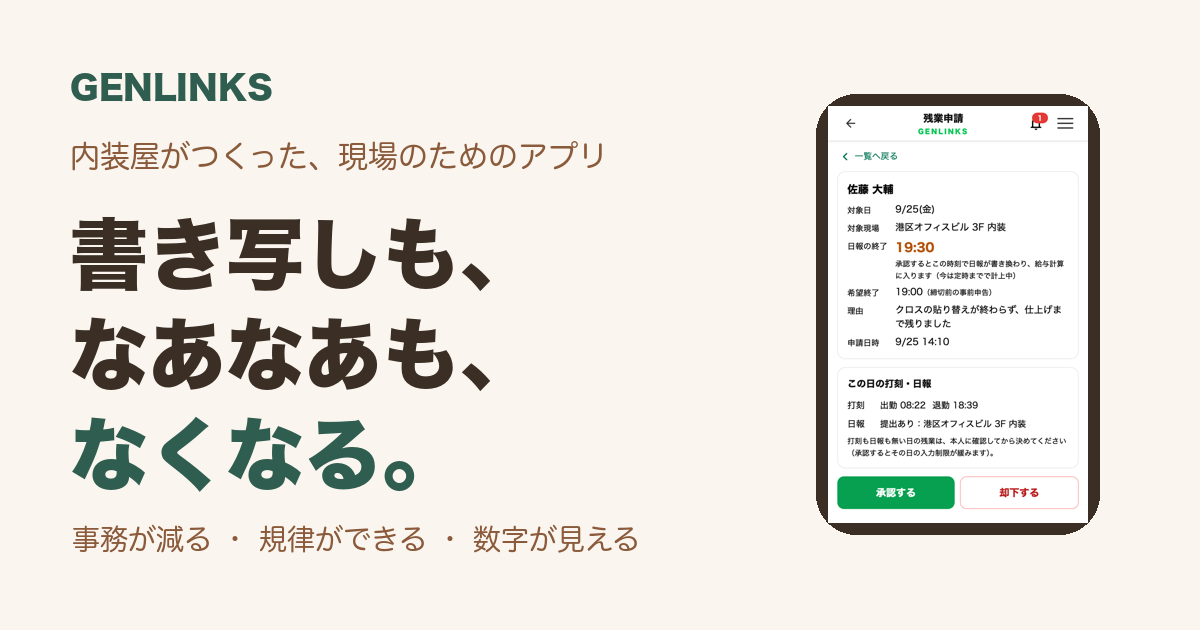
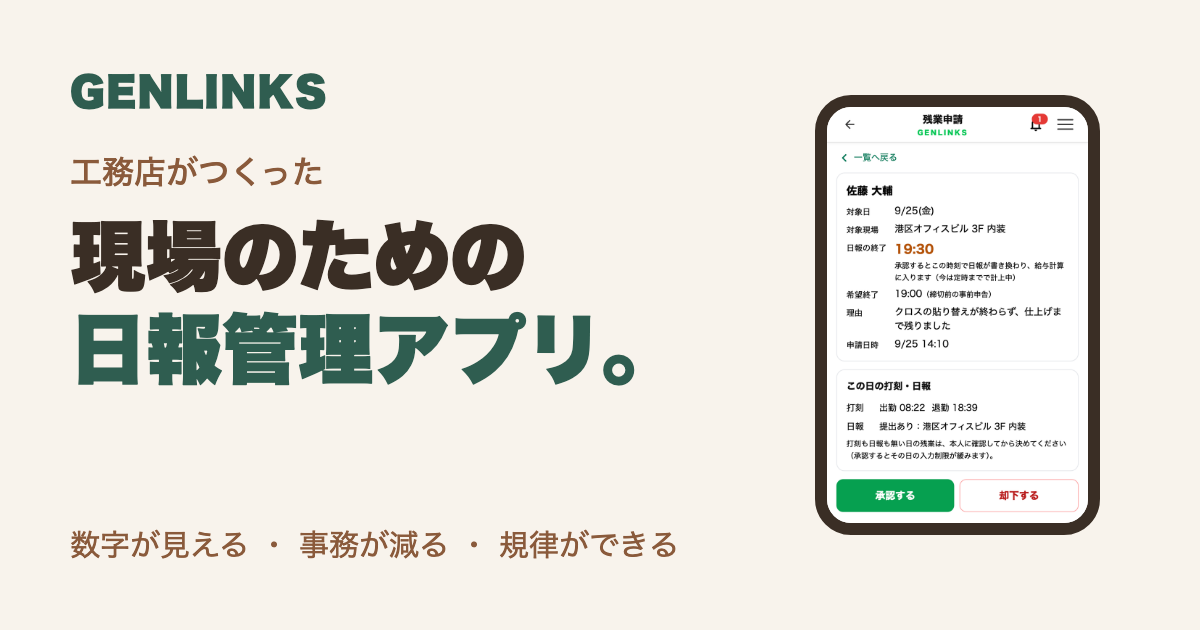
feat(lp): 大塚さんのレビューを反映（工務店がつくった日報管理アプリ／数字が見えるを先頭に・改訂5）
2026-09-28 大塚さん電話レビュー（設計書「GENLINKS 紹介用 LP（最小限）」改訂5）:
- 大見出しを「工務店がつくった、現場のための日報管理アプリ。」、札と価値の順を 数字が見える→事務が減る→規律ができる
- 困りごとの先頭を「儲かったのか分からない」、数字が見えるに「何か月もかかる現場でも今いくらか」「人件費は日当か実際の時給か選べる」
- 事務が減る: 見出しを「書き写しの伝言ゲームが、なくなる」（直せないように見えないように）＋「はじめに登録が要る（お手伝い）」
- 規律ができる: 残業申請がすぐ管理者に届く→無駄な残業が減る／経費は金額でなく「領収書の出し忘れがなくなる」／「職人さんを信じたい」
- シードの社名と「確認中」を外し「ある工務店（S社）」、つくった人の話は大塚さんの読み上げた文・名前はぼかす
- LINE 用の og 画像とタイトルも新しい顔に

diff --git a/apps/lp/index.html b/apps/lp/index.html
@@ -4,15 +4,15 @@
 <meta charset="utf-8">
 <meta name="viewport" content="width=device-width, initial-scale=1, viewport-fit=cover">
 <meta name="robots" content="noindex, nofollow">
-<meta name="description" content="書き写しも、なあなあも、なくなる。職人はスマホで日報だけ。事務・ルール・現場の数字が、ひとつにつながる。内装屋がつくった、現場のためのアプリ。">
+<meta name="description" content="工務店がつくった、現場のための日報管理アプリ。現場の原価が、その場で分かる。職人はスマホで日報を出すだけ。">
 <meta property="og:type" content="website">
-<meta property="og:title" content="GENLINKS｜書き写しも、なあなあも、なくなる。">
-<meta property="og:description" content="内装屋がつくった、現場のためのアプリ。職人はスマホで日報だけ。">
+<meta property="og:title" content="GENLINKS｜工務店がつくった、現場のための日報管理アプリ">
+<meta property="og:description" content="現場の原価が、その場で分かる。職人はスマホで日報を出すだけ。">
 <meta property="og:image" content="https://about.genlinks.app/img/og.png">
 <meta property="og:url" content="https://about.genlinks.app/">
 <meta name="twitter:card" content="summary_large_image">
 <meta name="theme-color" content="#2f5d50">
-<title>GENLINKS｜内装屋がつくった、現場のためのアプリ</title>
+<title>GENLINKS｜工務店がつくった、現場のための日報管理アプリ</title>
 <link rel="preconnect" href="https://fonts.googleapis.com">
 <link rel="preconnect" href="https://fonts.gstatic.com" crossorigin>
 <link rel="stylesheet" href="https://fonts.googleapis.com/css2?family=Zen+Maru+Gothic:wght@500;700;900&display=swap">
@@ -156,15 +156,14 @@
   <section class="hero">
     <div class="top">
       <div class="logo">GENLINKS</div>
-      <div class="badge">内装業のためのアプリ</div>
+      <div class="badge">内装・工務店のためのアプリ</div>
     </div>
-    <div class="eyebrow">内装屋がつくった、現場のためのアプリ</div>
-    <h1>書き写しも、<br>なあなあも、<br><span class="hl">なくなる。</span></h1>
-    <p class="lead">職人はスマホで日報だけ。<br>事務・ルール・現場の数字が、ひとつにつながる。</p>
+    <h1>工務店がつくった、<br>現場のための<br><span class="hl">日報管理アプリ。</span></h1>
+    <p class="lead">現場の原価が、その場で分かる。<br>職人はスマホで日報を出すだけ。</p>
     <div class="tags">
+      <span class="tag">数字が見える</span>
       <span class="tag">事務が減る</span>
       <span class="tag">規律ができる</span>
-      <span class="tag">数字が見える</span>
     </div>
     <div class="devices" aria-label="職人のスマホの日報が、社長のパソコンの集計に集まる様子">
       <div class="pc"><img src="img/lp-pc-attendance.png" alt="管理画面の出面・勤怠"></div>
@@ -177,6 +176,10 @@
   <section class="tint">
     <h2>こんなこと、<br>ありませんか？</h2>
     <div class="card pain">
+      <svg width="64" height="64" viewBox="0 0 64 64" fill="none" aria-hidden="true"><rect x="8" y="20" width="30" height="36" rx="3" fill="#efe5d6" stroke="#8a5a3b" stroke-width="2.5"/><path d="M15 29h5M25 29h5M15 38h5M25 38h5M15 47h5M25 47h5" stroke="#8a5a3b" stroke-width="2.5" stroke-linecap="round"/><path d="M4 56h56" stroke="#8a5a3b" stroke-width="2.5" stroke-linecap="round"/><circle cx="47" cy="26" r="13" fill="#ffffff" stroke="#2f5d50" stroke-width="3"/><path d="M42 20l5 6 5-6M47 26v8M43 29h8" stroke="#2f5d50" stroke-width="2.4" stroke-linecap="round" stroke-linejoin="round"/></svg>
+      <p>現場が終わるまで、儲かったのかどうか分からない</p>
+    </div>
+    <div class="card pain">
       <svg width="64" height="64" viewBox="0 0 64 64" fill="none" aria-hidden="true"><rect x="10" y="12" width="34" height="42" rx="4" fill="#efe5d6" stroke="#8a5a3b" stroke-width="2.5"/><rect x="16" y="8" width="34" height="42" rx="4" fill="#ffffff" stroke="#8a5a3b" stroke-width="2.5"/><path d="M23 19h20M23 26h20M23 33h14" stroke="#cdb89c" stroke-width="2.5" stroke-linecap="round"/><path d="M40 52 L56 36 L60 40 L44 56 L38 58 Z" fill="#d98b3a" stroke="#8a5a3b" stroke-width="2" stroke-linejoin="round"/></svg>
       <p>紙・LINE・Excel で届いた日報や経費を、毎日書き写している</p>
     </div>
@@ -184,25 +187,34 @@
       <svg width="64" height="64" viewBox="0 0 64 64" fill="none" aria-hidden="true"><circle cx="28" cy="34" r="20" fill="#ffffff" stroke="#2f5d50" stroke-width="3"/><path d="M28 22v12l8 6" stroke="#2f5d50" stroke-width="3" stroke-linecap="round" stroke-linejoin="round"/><circle cx="50" cy="16" r="11" fill="#d98b3a"/><path d="M46.5 13.5c0-2 1.6-3.5 3.5-3.5s3.5 1.4 3.5 3.3c0 2.6-3.5 2.8-3.5 5" stroke="#ffffff" stroke-width="2.4" stroke-linecap="round"/><circle cx="50" cy="22" r="1.4" fill="#ffffff"/></svg>
       <p>その残業や経費が本当かどうか、確かめようがない</p>
     </div>
-    <div class="card pain">
-      <svg width="64" height="64" viewBox="0 0 64 64" fill="none" aria-hidden="true"><rect x="8" y="20" width="30" height="36" rx="3" fill="#efe5d6" stroke="#8a5a3b" stroke-width="2.5"/><path d="M15 29h5M25 29h5M15 38h5M25 38h5M15 47h5M25 47h5" stroke="#8a5a3b" stroke-width="2.5" stroke-linecap="round"/><path d="M4 56h56" stroke="#8a5a3b" stroke-width="2.5" stroke-linecap="round"/><circle cx="47" cy="26" r="13" fill="#ffffff" stroke="#2f5d50" stroke-width="3"/><path d="M42 20l5 6 5-6M47 26v8M43 29h8" stroke="#2f5d50" stroke-width="2.4" stroke-linecap="round" stroke-linejoin="round"/></svg>
-      <p>現場が終わるまで、儲かったのかどうか分からない</p>
-    </div>
   </section>
 
   <section>
     <div class="eyebrow">GENLINKS で変わること</div>
     <h2>変わるのは、<br>この 3 つです。</h2>
     <nav class="values" aria-label="3つの変わること">
-      <a class="value" href="#jimu"><span class="mark">1</span><span><b>事務が減る</b><span>書き写しがなくなり、人件費も、事務の人のストレスやミスも減る</span></span><span class="go" aria-hidden="true">↓</span></a>
-      <a class="value" href="#kiritsu"><span class="mark">2</span><span><b>規律ができる</b><span>残業も経費も、決まったとおりに。社長が安心できる</span></span><span class="go" aria-hidden="true">↓</span></a>
-      <a class="value" href="#suji"><span class="mark">3</span><span><b>数字が見える</b><span>どの現場で、いくら使ったかが分かる</span></span><span class="go" aria-hidden="true">↓</span></a>
+      <a class="value" href="#suji"><span class="mark">1</span><span><b>数字が見える</b><span>どの現場で、いくら使ったかが、その場で分かる</span></span><span class="go" aria-hidden="true">↓</span></a>
+      <a class="value" href="#jimu"><span class="mark">2</span><span><b>事務が減る</b><span>書き写しがなくなり、人件費も、事務の人のストレスやミスも減る</span></span><span class="go" aria-hidden="true">↓</span></a>
+      <a class="value" href="#kiritsu"><span class="mark">3</span><span><b>規律ができる</b><span>残業も経費も、決まったとおりに。無駄な残業が減る</span></span><span class="go" aria-hidden="true">↓</span></a>
     </nav>
   </section>
 
-  <section class="tint" id="jimu">
-    <div class="chapter-head"><span class="mark">1</span><span class="eyebrow">事務が減る</span></div>
-    <h2>一度入れたら、<br>もう書き写さない。</h2>
+  <section class="tint" id="suji">
+    <div class="chapter-head"><span class="mark">1</span><span class="eyebrow">数字が見える</span></div>
+    <h2>どの現場で、<br>いくら使ったか。</h2>
+    <p class="lead">何か月もかかる現場でも、今いくらかかっているかが、その場で分かります。人件費・経費・協力業者の請求を、現場ごとに。「1万6千円のはずの処分費に40万円の請求」のような違いにも、すぐ気づけます。</p>
+    <div class="result">
+      <span class="label">人件費の出し方は、会社ごとに選べます</span>
+      <span class="fig">日当か、実際の時給か</span>
+    </div>
+    <div class="shot wide"><img src="img/lp-pc-site-cost.png" alt="現場別集計の画面"></div>
+    <p class="muted" style="font-size:13px;">ほかにも：見積・発注／工程表／現場チャット など</p>
+  </section>
+
+  <section id="jimu">
+    <div class="chapter-head"><span class="mark">2</span><span class="eyebrow">事務が減る</span></div>
+    <h2>書き写しの伝言ゲームが、<br>なくなる。</h2>
+    <p class="lead">職人 → 管理者 → 事務 → Excel と、同じことを何度も書き写さない。<br>直す時は、本人がスマホで直せます。</p>
     <div class="flow">
       <div class="who">
         <div class="ico"><svg width="24" height="24" viewBox="0 0 24 24" fill="none" stroke="#8a5a3b" stroke-width="2" stroke-linecap="round" stroke-linejoin="round" aria-hidden="true"><rect x="6" y="2" width="12" height="20" rx="3"/><path d="M10 18h4"/></svg></div>
@@ -220,48 +232,41 @@
       <li class="point"><svg width="22" height="22" viewBox="0 0 24 24" fill="none" stroke="#2f5d50" stroke-width="2.4" stroke-linecap="round" stroke-linejoin="round" aria-hidden="true"><path d="M5 12l5 5 9-10"/></svg><span><b>領収書は写真を撮るだけ</b><span>金額や登録番号（インボイス）を読み取って入ります。</span></span></li>
       <li class="point"><svg width="22" height="22" viewBox="0 0 24 24" fill="none" stroke="#2f5d50" stroke-width="2.4" stroke-linecap="round" stroke-linejoin="round" aria-hidden="true"><path d="M5 12l5 5 9-10"/></svg><span><b>有給も自動で管理</b><span>付与されると増えて、使えば減ります。本人もスマホで残りを見られます。</span></span></li>
     </ul>
+    <p class="note" style="font-size:13px;">はじめに、職人さんや現場の登録が必要です。登録はお手伝いします。</p>
     <div class="shot wide"><img src="img/lp-pc-attendance.png" alt="出面・勤怠の集計画面"></div>
     <div class="result">
-      <span class="label">株式会社シードでは、毎日の書き写しが<span class="checking">確認中</span></span>
+      <span class="label">ある工務店（S社）では、毎日の書き写しが</span>
       <span class="fig">約2時間 → ほぼゼロ</span>
     </div>
     <p class="lead">事務の人に残業代を払うより、書き写しを無くして残業を減らす。<br>それだけで、利用料の元が取れます。</p>
   </section>
 
-  <section id="kiritsu">
-    <div class="chapter-head"><span class="mark">2</span><span class="eyebrow">規律ができる</span></div>
-    <h2>職人を信じたい。<br>だから、仕組みで守る。</h2>
+  <section class="tint" id="kiritsu">
+    <div class="chapter-head"><span class="mark">3</span><span class="eyebrow">規律ができる</span></div>
+    <h2>職人さんを信じたい。<br>だから、仕組みで守る。</h2>
     <p class="lead">優しいだけだと、なあなあになる。<br>ルールが決まっていれば、正直な人が損をしません。</p>
     <ul class="points">
-      <li class="point"><svg width="22" height="22" viewBox="0 0 24 24" fill="none" stroke="#d98b3a" stroke-width="2.2" stroke-linecap="round" stroke-linejoin="round" aria-hidden="true"><circle cx="12" cy="13" r="8"/><path d="M12 9v4l3 2M9 2h6"/></svg><span><b>残業は、社長が承認してから</b><span>事前に申請して、承認されるまでは定時までで計上。会社が責任を持てる時間だけ働いてもらえます。</span></span></li>
+      <li class="point"><svg width="22" height="22" viewBox="0 0 24 24" fill="none" stroke="#d98b3a" stroke-width="2.2" stroke-linecap="round" stroke-linejoin="round" aria-hidden="true"><circle cx="12" cy="13" r="8"/><path d="M12 9v4l3 2M9 2h6"/></svg><span><b>残業申請は、すぐ管理者のスマホへ</b><span>「何のための残業？」「3日後なら人を足そう」とすぐ話せて、無駄な残業が減ります。知らないところでの残業もなくなります。</span></span></li>
       <li class="point"><svg width="22" height="22" viewBox="0 0 24 24" fill="none" stroke="#d98b3a" stroke-width="2.2" stroke-linecap="round" stroke-linejoin="round" aria-hidden="true"><rect x="3" y="4" width="8" height="16" rx="2"/><rect x="13" y="4" width="8" height="16" rx="2"/><path d="M6 9h2M16 9h2"/></svg><span><b>打刻と日報を並べて確かめる</b><span>出勤・退勤の打刻と日報の時刻を、承認の画面で並べて見られます。</span></span></li>
       <li class="point"><svg width="22" height="22" viewBox="0 0 24 24" fill="none" stroke="#d98b3a" stroke-width="2.2" stroke-linecap="round" stroke-linejoin="round" aria-hidden="true"><path d="M6 3h12v18l-3-2-3 2-3-2-3 2z"/><path d="M9 8h6M9 12h6"/></svg><span><b>経費は現場にひもづけて</b><span>どの現場の経費か、領収書の写真、接待なら同行者まで。</span></span></li>
       <li class="point"><svg width="22" height="22" viewBox="0 0 24 24" fill="none" stroke="#d98b3a" stroke-width="2.2" stroke-linecap="round" stroke-linejoin="round" aria-hidden="true"><path d="M4 20h4L19 9l-4-4L4 16z"/><path d="M13 7l4 4"/></svg><span><b>締切後の修正は、理由と承認</b><span>誰が・いつ・何を直したかも残ります。</span></span></li>
     </ul>
     <div class="shot phone-shot"><img src="img/lp-phone-approve.png" alt="残業申請の承認画面（日報の終了時刻・その日の打刻と日報が並ぶ）"></div>
     <div class="result">
-      <span class="label">株式会社シードでは、毎月の経費が<span class="checking">確認中</span></span>
-      <span class="fig">15〜20万円 → 約10万円</span>
-      <span class="src">経費を現場にひもづけてから（2026年6〜7月）</span>
+      <span class="label">経費は毎日その場で出すから</span>
+      <span class="fig">領収書の出し忘れが、なくなる</span>
+      <span class="src">決算の直前に、2か月前の領収書が出てくる…もなくなります</span>
     </div>
-  </section>
-
-  <section class="tint" id="suji">
-    <div class="chapter-head"><span class="mark">3</span><span class="eyebrow">数字が見える</span></div>
-    <h2>どの現場で、<br>いくら使ったか。</h2>
-    <p class="lead">人件費・経費・協力業者の請求を、現場ごとに。「1万6千円のはずの処分費に40万円の請求」のような違いに、すぐ気づけます。</p>
-    <div class="shot wide"><img src="img/lp-pc-site-cost.png" alt="現場別集計の画面"></div>
-    <p class="muted" style="font-size:13px;">ほかにも：見積・発注／工程表／現場チャット など</p>
   </section>
 
   <section>
     <div class="eyebrow">つくった人の話</div>
     <h2>自分の会社で<br>困っていたから、<br>つくりました。</h2>
     <div class="maker">
-      <div class="face" aria-hidden="true">大塚</div>
+      <div class="face" aria-hidden="true">社長</div>
       <div>
-        <p>職人の日報や経費を紙やLINEで集めて、月末に書き写すのが大変でした。本当かどうか確かめようのない残業や経費もありました。職人を疑いたいわけじゃない。だから、仕組みで決めることにしました。今はうちの職人28人が、毎日これで日報を出しています。</p>
-        <div class="note" style="margin-top:8px;">つくった人：大塚（内装業）</div>
+        <p>職人の日報や経費をLINEで集めて、月末に書き写すのが大変でした。本当かどうか確かめられない残業や経費もありました。職人さんを疑いたいわけじゃない。信じたい。だからこそ、仕組みで決めることにしました。今はうちの職人28人が、毎日これで日報を出しています。</p>
+        <div class="note" style="margin-top:8px;">つくった人：名古屋の内装会社の社長</div>
       </div>
     </div>
     <div class="eyebrow" style="color:var(--ink-2);padding-top:4px;">うちで実際に動いている数字</div>
